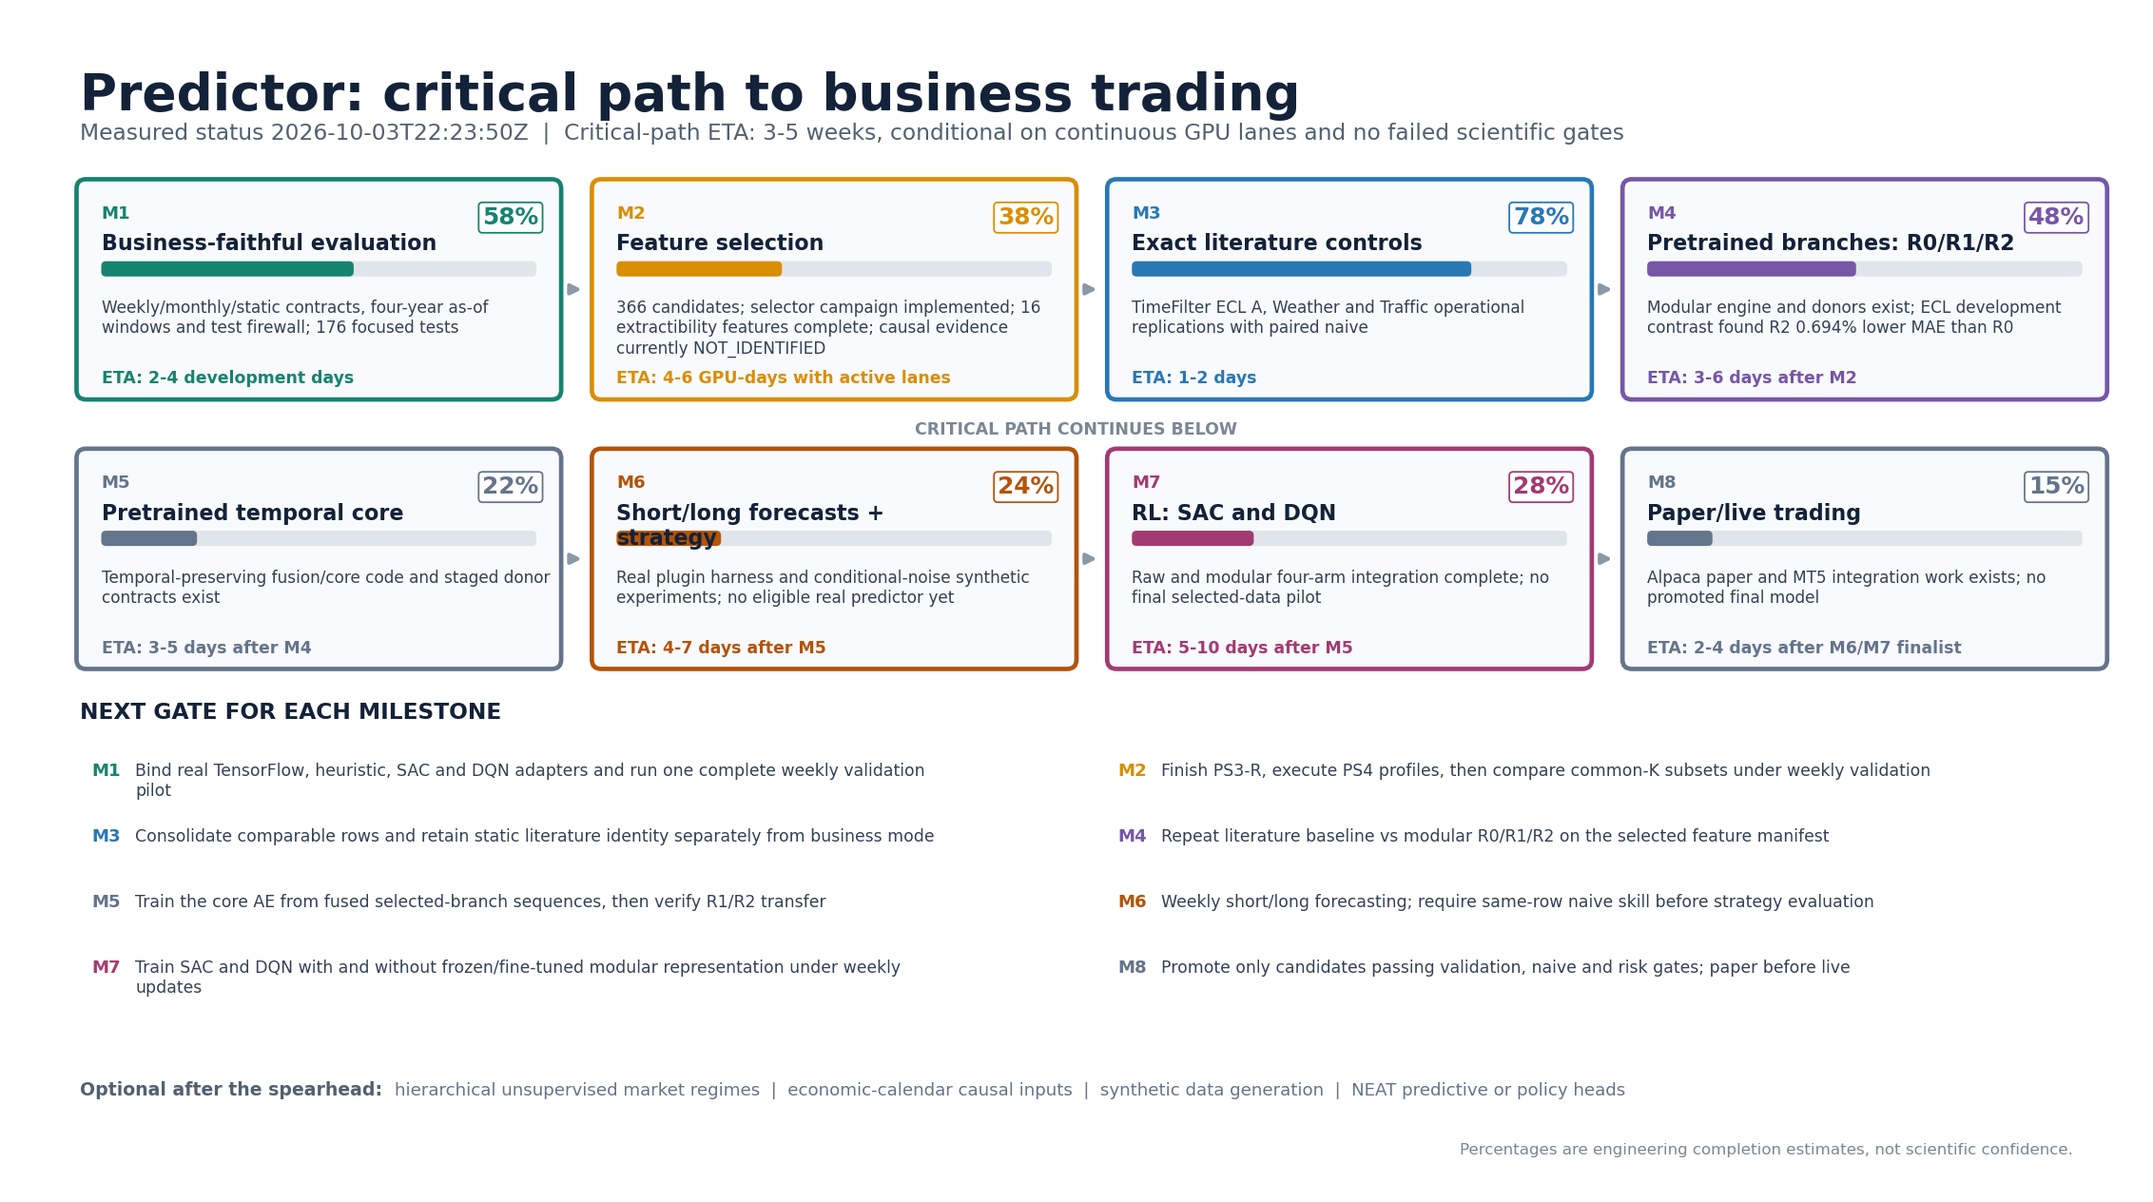
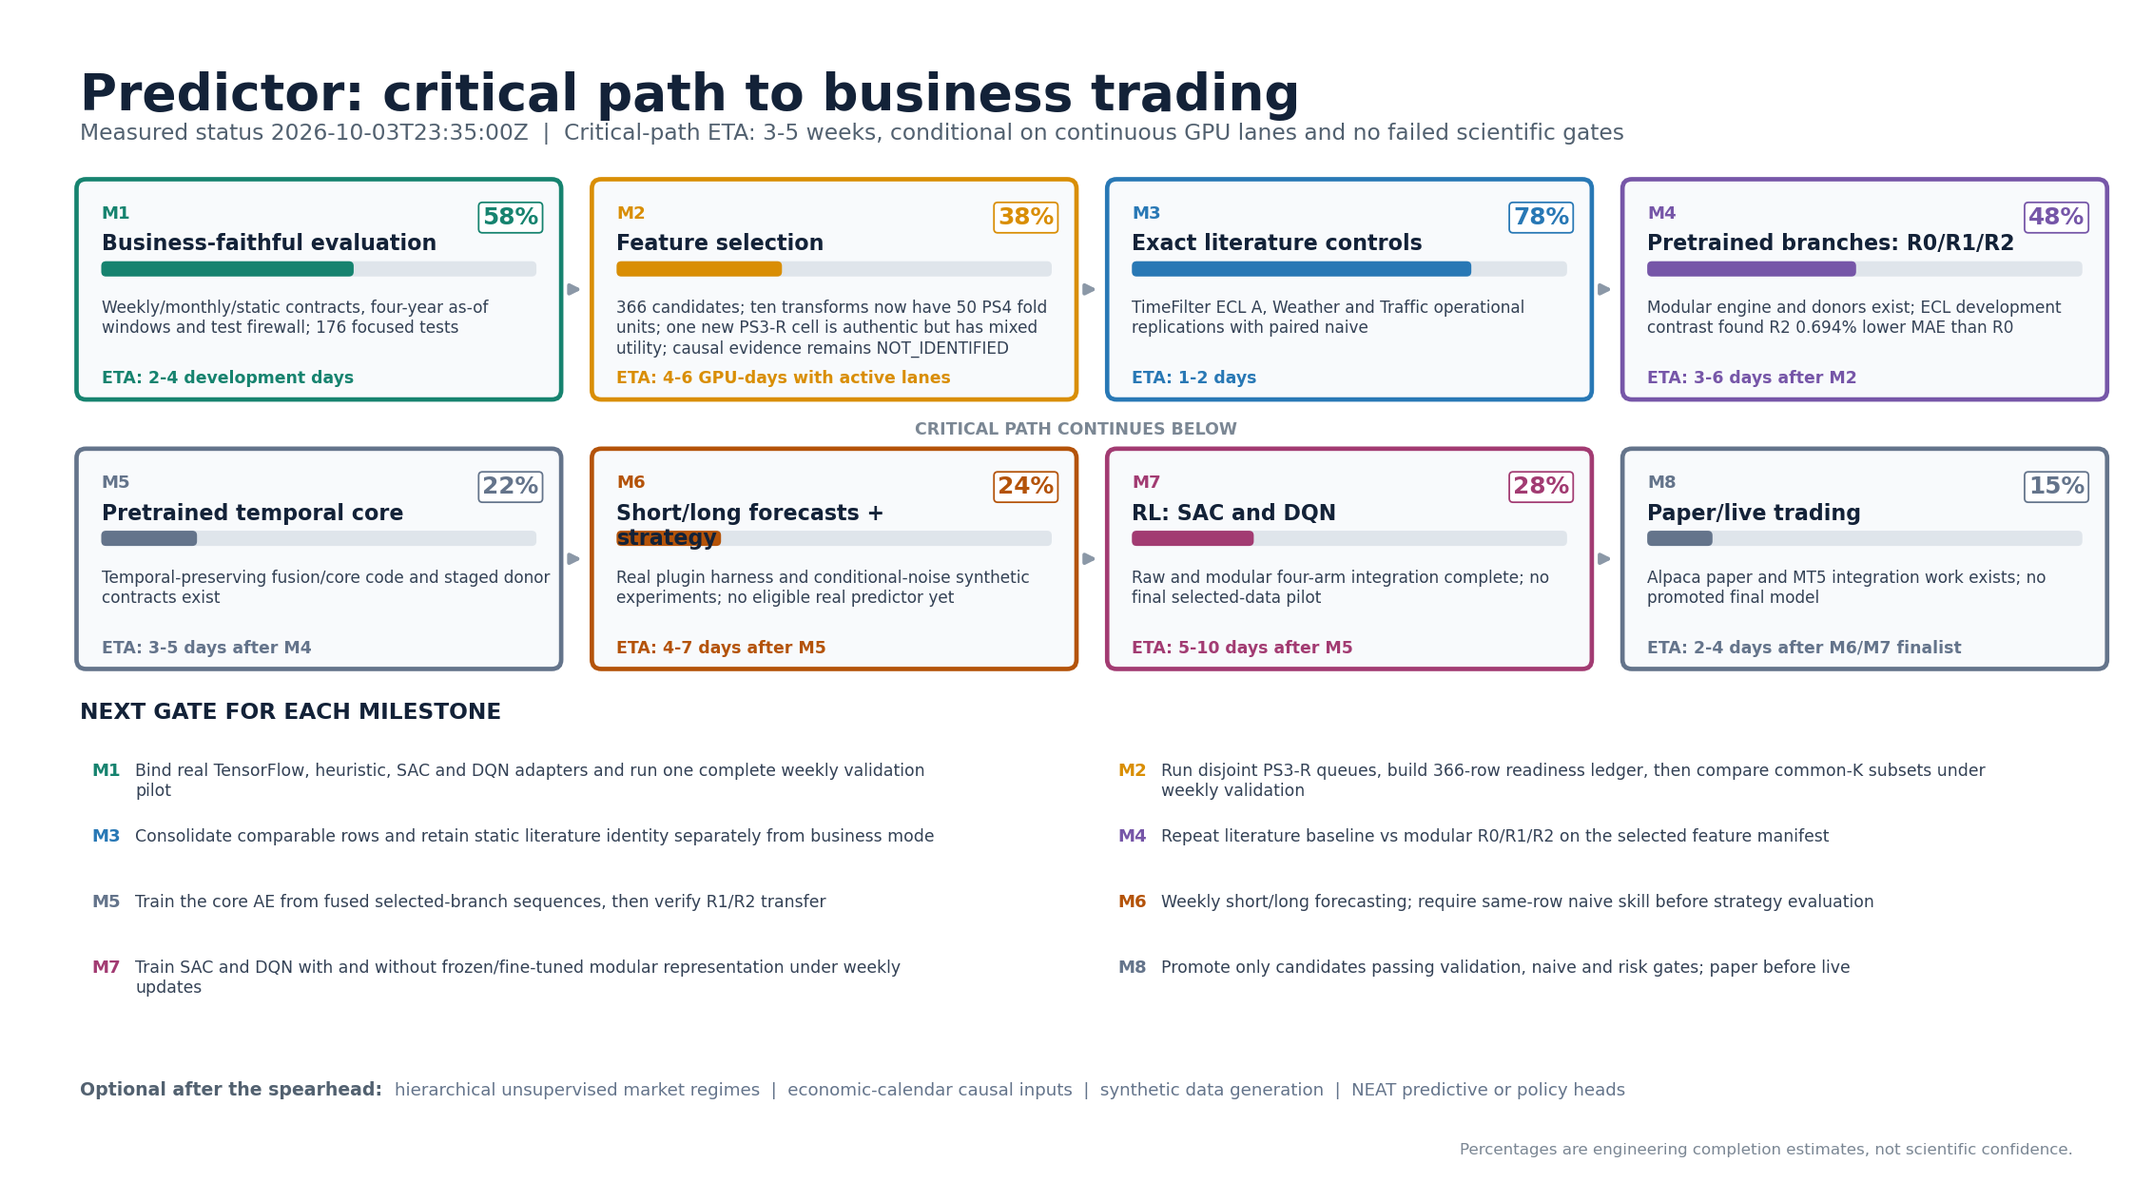
Audit selection evidence and redirect parallel execution

Changed region(s): [[0.5565, 0.6171, 0.9276, 0.6788], [0.2783, 0.2468, 0.4947, 0.3085]]

diff --git a/docs/tres_temas_entrevista/program_v3/CURRENT_EXECUTION.md b/docs/tres_temas_entrevista/program_v3/CURRENT_EXECUTION.md
@@ -1,6 +1,6 @@
 # Estado de ejecución vigente
 
-Observado: 2026-10-03 18:49 UTC. La autoridad `codex/workplan-consolidation-20261003@02434903` está integrada en esta rama. Este corte sustituye las observaciones anteriores; no modifica resultados históricos. El `STATUS.json` de las 10:02 UTC es una instantánea anterior, no el estado vivo.
+Observado: 2026-10-03 23:35 UTC. La autoridad `codex/workplan-consolidation-20261003@02434903` está integrada en esta rama. Este corte sustituye las observaciones anteriores; no modifica resultados históricos. Los `STATUS.json` anteriores son instantáneas, no el estado vivo.
 
 ## Secuencia vigente
 
@@ -20,10 +20,10 @@ No ejecutar NEAT ahora. NEAT es un cabezal tardío, después de selección, ARCH
 
 | Host/GPU | Corte observado | Trabajo / disponibilidad |
 |---|---|---|
-| Omega RTX 4070 Laptop | 17%, 1,079 MiB, 49 C | Uso de escritorio/servicios; sin job científico batch. Contratos y tests CPU pequeños solamente. |
-| Gamma RTX 5090 | 37%, 30,426 MiB, 53 C | Lane E, `tv.kalman_dev`, activo en batch 003; PS3-R continúa. |
-| Gamma RTX 5070 Ti Laptop | 0%, 14 MiB, 39 C | Lane F tiene 37 manifiestos de rasgo retenidos y espera turno; E/F comparten el slice de 8 GiB. |
-| Dragon RTX 4090 Laptop | 7%, 14 MiB, 29 C | Sin job GPU; 12 GiB disponibles. Repos presentes, pero faltan los tres lotes PS2 exactos. No se lanzó una celda con datos sustitutos. |
+| Omega RTX 4070 Laptop | escritorio, sin job batch observado | Contratos y tests CPU pequeños solamente. |
+| Gamma RTX 5090 | 0%, 48 MiB, 36 C | Ociosa. `dprime` está en espera de admisión a 8,000 MiB; no existe hijo de modelo. La nueva orden mueve esa carga a dragon y asigna lane F, que sí cabe, a la 5090. |
+| Gamma RTX 5070 Ti Laptop | 0%, 14 MiB, 26 C | Ociosa. No concurre con la 5090 porque ambas comparten 14 GiB de RAM del host. |
+| Dragon RTX 4090 Laptop | 7%, 14 MiB, 30 C | Ociosa tras completar `fred.stress.vixcls.logret_5d`; 11 GiB disponibles y batch 002 autenticado presente. Recibe la cola PS3-R de 8,000 MiB. |
 
 La cola F no equivale a trabajo usando la 5070 Ti mientras E ocupa el slice. El driver E/F alterna al terminar una celda; no iniciar un duplicado ni forzar concurrencia.
 
@@ -33,25 +33,22 @@ La cola F no equivale a trabajo usando la 5070 Ti mientras E ocupa el slice. El 
 |---|---|---|
 | PS0/PS1 inventario y perfil | PARCIAL | Lotes 001-003: 366 candidatas, 37 fuentes de episodios y 4,444 celdas de perfil (4,432 medidas, 10 NA, 2 fallidas). Ledger de 388 filas de fuente: 141 `DECLARED_ONLY`, 119 `UNKNOWN`, 123 `NOT_APPLICABLE`, 3 `NOT_AVAILABLE_FOR_TRAIN`, 1 `NOT_INGESTED`, 1 `MEASURED`. No son 388 features aceptadas. |
 | Fuentes con suscripción | PARCIAL | Yahoo Finance figura con 78 fuentes inventariadas y cierres diarios; las 2 entradas FXMacroData no cubren TRAIN de esta tarea (una solo VALIDATION/TEST, otra es calendario futuro); Alpaca está identificado pero no ingerido por data-gov. No declarar cubiertas las suscripciones por su sola presencia en el inventario. |
-| Variantes de señal | PARCIAL | Cinco variantes trailing/filter pasan solo la prueba de computabilidad causal; sus perfiles PS1/PS4 siguen `PENDING_PROFILE`. Cuatro variantes globales/smoother fallan el probe de prefijo por usar futuro. Ninguna es seleccionada por esta prueba. |
+| Variantes de señal | PERFIL PS4 PARCIAL ACEPTADO | Diez salidas de cinco variantes causales tienen 50 unidades feature-fold y 1,050 métricas PS4 completas. Cuatro variantes globales/smoother siguen rechazadas por usar futuro. Ninguna queda seleccionada por perfilado. |
 | PS2 | PARCIAL | 366 admisibles: 279 pasaron a la shortlist de PS3-C; 87 quedaron con prioridad baja en las 14 celdas. Los conteos de tiers se solapan y no deben sumarse. La cola no expresa aún cómo reconsiderar esas 87; PS5 debe dar estado a cada una. |
 | PS3-C causal | FIX Y REVISIÓN PUBLICADOS | `causal-inference@48ae17c`; 45 pruebas focales pasan. Revisión read-only de los tres lotes guardada en `laneC/reanalysis_48ae17c/`: 279 candidatas, 1,076 filas históricas; 109 con BH local, 0 identificación aceptada, 0 confirmaciones no lineales. La suite general del proveedor deja 6 fallos de entorno (EconML y paquete no instalado en subproceso), 149 pasan y 27 skip. |
-| PS3-R extractibilidad | EN EJECUCIÓN | E: 43 manifiestos de rasgo retenidos de 137 en la cola; F: 37 de 274 trabajos planeados, alternando bajo el slice compartido. De la shortlist: 137/279 en la matriz E; quedan 142 (132 tier-3, 10 calendario) y 87 low-priority con disposición pendiente, no rechazadas. Reconstrucción no equivale a utilidad predictiva. |
+| PS3-R extractibilidad | EN EJECUCIÓN, COLOCACIÓN CORREGIDA | Dragon completó `fred.stress.vixcls.logret_5d` en 1,134.3 s: 441 filas y pico cgroup 7.315 GB. AE/DAE reconstruyen bien, pero su utilidad contra random es mixta y ambos pierden Y_b en 10/10 celdas. Las celdas E de 8,000 MiB pasan a dragon; gamma 5090 ejecuta lane F a sus topes medidos. Reconstrucción no equivale a selección. |
 | Cobertura de features | RECONCILIACIÓN PARCIAL | `coverage_reconciliation/`: 366/366 filas, 279 en join PS3-C + 87 fuera, 137 en cola E, 142 fuera de E = 132 tier-3 + 10 calendario. Ocho pruebas pasan. Proveedores pagados y transformaciones siguen requiriendo su propia reconciliación; no se declara exhaustivo. |
-| PS4/PS5 manifiesto conjunto | PILOTO PARCIAL | PS4: nueve variantes sin perfil ampliado. PS5: un contraste EURUSD Y_l@24h `inner_2019`, una semilla, cuatro brazos, 4,944 orígenes pareados y 429 actualizaciones por brazo. Pareja MAE 0.002228, mejor brazo individual 0.002252, naive pareado 0.002199: reingreso relativo, pero falla el naive. Solo lote 001 presente en el piloto local; no se libera selección ni se prueba en estrategia. Ejecutor y prueba de compuerta en `d5d8d077`. |
+| PS4/PS5 manifiesto conjunto | PILOTO PARCIAL | PS4 acepta solo la subpoblación de diez transformaciones: 50/50 unidades y 1,050 filas. PS5 conserva un contraste EURUSD Y_l@24h que falla el naive pareado (0.002228 frente a 0.002199). Falta ledger de preparación de 366 filas, evidencia PS3-R/PS4 requerida y comparación common-K; no se libera selección ni estrategia. |
 | ARCH/E1/H-CORE/NEAT/RL | AÚN NO ELEGIBLES | Ejecutar en orden canónico solo tras manifiesto final; H-CORE después de E1 y NEAT al final sobre representación congelada. |
 | Walk-forward semanal | IMPLEMENTACIÓN PARCIAL | Contrato BW01-BW18 y núcleo de calendario/modos implementados; faltan resolver población as-of, firewall test completo, adapters de entrenamiento y unión al runtime semanal. Los folds estáticos retenidos no cambian de clase. |
 | Literatura | COLA NO VIVA | No hay runner científico observado en Dragon; el STATUS anterior describía una cola Traffic, no un proceso vivo en este corte. |
 
 ## Trabajo en paralelo y orden inmediato
 
-1. **Gamma E/F:** E corre `tv.kalman_dev` en 5090; F espera en 5070 Ti. El pico previo de E (≈6.5 GiB) + el consumo de F (≈3.6 GiB) exceden 8 GiB; alternan sin solaparse.
+1. **Gamma:** cancelar únicamente el waiter E sin hijo; ejecutar lane F en la 5090 a su tope medido, una celda por vez. No reintentar `dgs30`/`dprime` con un tope reducido.
 2. **CPU, causal-inference:** revisión read-only de los tres lotes completada bajo `48ae17c`; preservar originales y mantener los 0 casos identificados como resultado del gate, no como rechazo de features. La siguiente acción es cerrar fuentes/transformaciones y reabrir análisis cuando haya evidencia de assumptions verificable.
 3. **CPU, cobertura de selección:** ledger de fuentes/transformaciones incorporado desde Retsu `749ba6a8` como `292e13cc`, sin diferencia de árbol entre esos dos commits. Continuar las disposiciones de 87 low-priority, 142 fuera de E, transformaciones PS4 y fuentes pagadas/no disponibles. Sin omisiones implícitas.
-4. **Dragon:** repos y entorno base presentes; faltan `batch_001..003`, que pesan
-   aproximadamente 164 MiB en Gamma. Empaquetarlos como recurso derivado con
-   manifiesto/digest y entregarlos por la ruta gobernada; después repartir una
-   cola PS3-R disjunta. No copiar una matriz anónima ni duplicar celdas de Gamma.
+4. **Dragon:** batch 002 autenticado está presente y una celda real terminó. Continuar allí la cola pesada E de 8,000 MiB con claim global y sin duplicar celdas de Gamma.
 5. **Omega:** mantener solo verificaciones CPU pequeñas y reportes; no ocupar la 4070 de escritorio para un job largo.
 6. **CPU negocio:** completar protocolo semanal, población as-of y firewall de
    validation/test; luego adaptar forecasting, heurística y RL a una identidad

diff --git a/docs/handoffs/RETSU_M1_M2_PARALLEL_CONTINUATION_2026_10_03.md b/docs/handoffs/RETSU_M1_M2_PARALLEL_CONTINUATION_2026_10_03.md
@@ -1,0 +1,115 @@
+# Retsu: literal M1/M2 parallel continuation
+
+This order supersedes the Gamma retry paragraph in
+`RETSU_CRITICAL_PATH_PARALLEL_EXECUTION_2026_10_03.md`. It does not supersede
+the master plan. Execute lanes A, B, C and D independently; a blocked lane must
+not stop the others.
+
+## 0. Start and invariants
+
+Fetch `origin/satoshi/canonical-exec-20261003` and create one fresh worktree per
+code lane from its current tip. Verify that `1b832e9b`, `1f86accf`,
+`8987c573` in feature-extractor, and `48ae17c` in causal-inference are reachable
+from their declared repositories before use.
+
+Never run NEAT, H-CORE, real-data RL, strategy evaluation, or calendar as a
+model input in this dispatch. Use seed 0 for existing PS3-R contracts. Do not
+repeat a completed cell. Every MAE/MSE must carry its same-row naive; a model
+that does not strictly beat the configured naive is not strategy-eligible.
+
+## A. M1 weekly scorer on omega CPU
+
+Execute `docs/handoffs/RETSU_M1_WEEKLY_SCORE_GATE_2026_10_03.md` literally in a
+fresh branch. This is engineering and focused tests only. It must not open real
+test data or train a model. If the business task still lacks a primary error
+metric, retain `NOT_CONFIGURED`; do not choose one silently.
+
+## B. Gamma: use the 5090 for the workload that fits
+
+1. Prove there is no `app.univariate_temporal_pilot` child and identify the one
+   queued `laneE_fred_rates_dprime_logret_5d` waiter.
+2. Cancel that queued waiter by exact request identity. Preserve its receipt.
+   Do not cancel a child or lease if the state changed and real work started.
+3. Do not resubmit `dgs30` or `dprime` below 8,000 MiB on gamma. Their existing
+   refusal/queue records are terminal placement evidence, not a timer.
+4. Resume lane F on the external RTX 5090, not the internal 5070 Ti. Use the
+   existing plan and scientific arguments, select the first missing terminal
+   unit, and change only physical placement to `CUDA_VISIBLE_DEVICES=1`.
+5. `masked_temporal_ae` keeps its retained 5,940 MiB cap;
+   `past_to_current_siamese` keeps 6,670 MiB. One gamma child total. Before
+   launch verify the physical UUID inside the child is the external 5090.
+6. After each terminal unit, continue with the next missing unit. Never infer
+   completion from the driver log alone; require the run manifest and result
+   digest.
+
+Do not run lane E and F concurrently on gamma. The goal is useful 5090 work,
+not two processes competing for the same 14 GiB host.
+
+## C. Dragon: continuous heavy PS3-R baseline queue
+
+Dragon owns the 8,000 MiB identity/random/AE/DAE cells while gamma runs lane F.
+Use the authenticated batch-002 bytes already present. Before every launch,
+re-hash `series.npz`, `targets.npz`, the batch manifest and code, and create an
+exclusive claim checked against gamma and dragon terminal results, children,
+waiters and claims.
+
+Run exactly one cell at a time on the RTX 4090:
+
+1. `fred.rates.dgs30.level`, if still globally unclaimed and without terminal;
+2. `fred.rates.dprime.logret_5d`, under the same conditions;
+3. the next canonical unclaimed PS2-priority feature.
+
+Use the same scientific command as the accepted vix cell: window 168, latent 8,
+seed 0, families `identity,random,ae,dae`, max fit windows 16,384, early stopping
+from the pinned runner, and an 8,000 MiB governed cap. No smaller population or
+cap retry. If a cell cannot be admitted on dragon, record the terminal resource
+failure and advance only to a scientifically independent cell that fits.
+
+Each result must report the 20 fold-family rows, 280 probes, 140 deltas and one
+summary or explicitly explain why that schema does not apply. Report trained
+versus random and trained versus raw by target and horizon; reconstruction alone
+never selects a feature.
+
+## D. CPU selection readiness and audited PS4 integration
+
+Start after A is dispatched; it may run concurrently with B and C.
+
+1. Integrate the accepted PS4 transform subpopulation from
+   `docs/audits/evidence/canonical_20261003/ps4_transform_profile/` into the
+   coverage ledger by content digest. Change only the ten corresponding
+   transform statuses from `PENDING_PROFILE` to measured. Do not label all PS4
+   complete.
+2. Produce one deterministic readiness row for every one of the 366 candidates
+   with PS0/PS1, PS2, PS3-C, PS3-R, PS4 and PS5 status, exact evidence locator,
+   digest and missing next action. `NOT_IDENTIFIED` in PS3-C is neutral.
+3. Fail if the denominator is not exactly 366, any candidate is absent or
+   duplicated, a terminal status lacks evidence, or a missing status is cast to
+   zero/rejected.
+4. For every newly completed PS3-R feature, add its readiness evidence and
+   schedule only the PS4 metrics required by the plan for prioritized
+   survivors/exploration. Do not compute an unbounded product and do not issue
+   a final feature manifest.
+5. Prepare the common-K PS5 comparison inputs (`K=24`, sealed sensitivity
+   `8,16,24,32,48`) on identical inner TRAIN weekly folds, including predictive
+   baseline, +causal, +extractibility, random-K and all-admissible controls.
+   Preparation is not permission to train before readiness gates pass.
+
+Add test-first counterexamples for a missing candidate, duplicate candidate,
+false causal rejection, stale PS4 digest and PS3-R reconstruction presented as
+selection utility.
+
+## Return format
+
+Heartbeat only on start, terminal cell, or every 30 minutes while work is live:
+
+```text
+UTC | host/resource | lane | exact unit | RUNNING/QUEUED/DONE/FAILED |
+completed/denominator | ETA basis | next unit
+```
+
+Return measured results first, then one section per lane with branch, commit,
+tests, digests, exact denominators and remaining work. Update M1/M2 progress only
+from completed acceptance criteria. Explicitly distinguish queued admission
+from live GPU work and list GPU UUID, utilization and memory for every live
+child. Commit and push each lane; do not wait for all lanes before publishing a
+completed independent lane.

diff --git a/docs/audits/evidence/canonical_20261003/RETSU_PS4_PS3R_AUDIT_2026_10_03.md b/docs/audits/evidence/canonical_20261003/RETSU_PS4_PS3R_AUDIT_2026_10_03.md
@@ -1,0 +1,67 @@
+# Audit of Retsu PS4 and PS3-R return
+
+Observed independently on 2026-10-03 after Retsu's return. This audit narrows
+claims; it does not create a feature-selection decision.
+
+## PS4 transform profiles: accepted in their declared scope
+
+- Integrated source: `retsu/ps4-transform-profile-20261003@3026381c`.
+- Population: ten emitted causal transform features by five inner TRAIN folds,
+  50 feature-fold units and 1,050 metric rows.
+- Every unit has the same 21 declared information/compression metrics. All
+  output identities are unique, every completed value is finite, and all rows
+  carry one source-digest set and profiler digest
[1 lines of base64/hex data omitted]
+- The profiler digest equals the bytes of `tools/df_profile_information.py` in
+  the audited tree. The three reported artifact hashes and every retained input
+  hash were independently recomputed and match.
+- The focused suite passes 10/10. Its temporal mutation test changes rows after
+  a fold cutoff and proves that the fold output is unchanged, then changes a
+  row inside TRAIN and proves that the output changes.
+
+Disposition: `ACCEPTED_PS4_TRANSFORM_SUBPOPULATION`. This closes the pending
+profile state only for these ten emitted transforms. It is not PS4 coverage of
+the 366 candidates and is not feature selection.
+
+## Dragon PS3-R cell: authentic measurement, not a selection verdict
+
+Cell `batch_002/fred.stress.vixcls.logret_5d`, seed 0, completed on the RTX 4090.
+The retained results hash is
[1 lines of base64/hex data omitted]
+the file has 441 rows: 20 fold-family rows, 280 probes, 140 paired deltas and
+one summary. The run used five inner TRAIN folds, `window=168`, timestamp-based
+seasonal context (`calendar_dim=6`), identity/random/AE/DAE controls, restored
+best checkpoints and seed 0. The log proves TensorFlow created the RTX 4090 and
+loaded cuDNN. The incomplete CPU attempt is retained in a distinct directory.
+
+Measured interpretation is mixed. Against the random encoder, AE has a tiny
+mean improvement on Y_s and Y_l but wins only 17/30 fold-horizon cells in each;
+DAE wins 13/30 on Y_s and 9/30 on Y_l. Both trained encoders lose the Y_b
+log-loss comparison in 10/10 cells. Reconstruction is excellent, but that does
+not establish useful target representation. The cell therefore remains one
+PS3-R evidence row and cannot select or reject the feature by itself.
+
+Disposition: `ACCEPTED_PS3R_CELL_MIXED_UTILITY`.
+
+## Gamma admission: stale retry instruction withdrawn
+
+No model child ran for `fred.rates.dgs30.level`. The 8,000 MiB waiter was
+cancelled and the one 7,936 MiB request was correctly rejected as
+`CAP_LOWERED_AFTER_REFUSAL`. Waiting 3,600 seconds and submitting the same lower
+cap would evade the recorded refusal rather than add memory evidence. That
+retry is withdrawn. The current `fred.rates.dprime.logret_5d` request is also
+only queued at 8,000 MiB with `HOST_HEADROOM`; it is not GPU work.
+
+Heavy 8,000 MiB PS3-R cells move to dragon, which has admitted the real
+workload. Gamma's external 5090 receives the already measured 6,670 MiB
+alternative-extractor lane, one job at a time. The two gamma GPUs remain
+non-concurrent because they share host RAM.
+
+## Program state
+
+- Denominator remains 366 candidate features.
+- PS3-C `NOT_IDENTIFIED` remains neutral.
+- No final selected/rejected/pending manifest exists.
+- M1 weekly business evaluation and M2 feature selection remain co-critical.
+- ARCH, R0/R1/R2 on the selected manifest, H-CORE, Dense/NEAT, real-data RL and
+  strategy evaluation remain downstream and are not authorized by this return.
